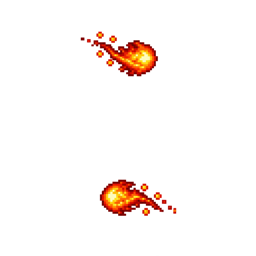
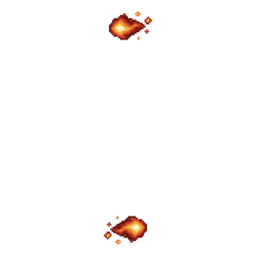
art: align fireball tails with aura rotation

Changed region(s): [[0.3125, 0.0312, 0.625, 0.3125], [0.375, 0.6875, 0.6875, 0.9688]]

diff --git a/Docs/presentation-art-preview.html b/Docs/presentation-art-preview.html
@@ -139,7 +139,7 @@
     <section>
       <div class="section-title">
         <h2>技能 VFX の対比</h2>
-        <span class="section-note">左が実装参照PNG、右が未接続の候補です。数字一〜三は中央を空けた火の玉で、時計回りの軌道に合わせて尾を反対側へ流します。周回の動きは承認後に接続します。</span>
+        <span class="section-note">左が実装参照PNG、右が未接続の候補です。数字一〜三は中央を空けた火の玉で、実装の反時計回りの軌道に合わせて尾を反対側へ流します。周回の動きは承認後に接続します。</span>
       </div>
       <div id="vfx-comparisons" class="comparison-list"></div>
     </section>
@@ -148,7 +148,7 @@
   <script>
     const root = 'review-assets/';
     // Keep local file previews from retaining an older candidate after an art revision.
-    const previewRevision = '20261004-v10';
+    const previewRevision = '20261004-v11';
     const pieces = [
       ['一', 'Art/Generated/CharacterIcons/icon_01_1.png'], ['二', 'Art/Generated/CharacterIcons/icon_02_2.png'], ['三', 'Art/Generated/CharacterIcons/icon_03_3.png'],
       ['四', 'Art/Generated/CharacterIcons/icon_04_4.png'], ['五', 'Art/Generated/CharacterIcons/icon_05_5.png'], ['六', 'Art/Generated/CharacterIcons/icon_06_6.png'],

diff --git a/Docs/Audio/VFX_AnimatedAssetBrief.md b/Docs/Audio/VFX_AnimatedAssetBrief.md
@@ -128,7 +128,7 @@ Use alpha fade and changing scale rather than only swapping colors. The first an
 - VFX はコンタクトシートや共通スプライトにまとめず、技能フォルダごとに一枚ずつ下書きを用意する。プレビューでは駒モチーフと並べて、透過、中心原点、余白、最小表示時の輪郭を個別に確認する。
 - 既存 VFX に対応するドット絵版は、新規の解釈で描き直さない。元の PNG を編集入力にし、対象物、角度、シルエット、キャンバス内の位置、透明余白、右向きなどの向きを固定したうえで、描画だけをドット絵へ変換する。とくに水は現行どおり水玉、盾は木札と墨線の和風意匠を維持する。馬は右端の目立つ欠けだけを一続きの砂埃へ補修してよく、鳥は現行の三枚の淡い羽を維持し、黒い縁取りを足さない。
 - 今回の全技能候補は、ランタイムが使う代表 PNG を 4 分の 1 程度へ縮小してから最近傍で元サイズへ戻す。透明度、原点、余白、実装時の向きを保持し、候補同士で別の画像を流用しない。
-- 数字の代表エフェクトは、現在の円形オーラを中央の駒を空けた小さな火の玉の周回表現へ置き換える候補を作る。`一` は火の玉一つ、`二` は二つ、`三` は三つで、外周に等間隔で置く。時計回りの軌道では、火球の頭を進行方向へ向け、尾はその反対側へ接線方向に流す。火の玉自体を時計回りに回転させる動きは承認後に既存の共通 VFX モーションへ加える。
+- 数字の代表エフェクトは、現在の円形オーラを中央の駒を空けた小さな火の玉の周回表現へ置き換える候補を作る。`一` は火の玉一つ、`二` は二つ、`三` は三つで、外周に等間隔で置く。既存の共通 VFX モーションに合わせて反時計回りに周回し、火球の頭を進行方向へ向け、尾はその反対側へ接線方向に流す。
 
 - Aim for a rugged shogi-board fantasy style: carved wood, forged iron, worn leather, paper, soil, smoke, sparks, embers, and water droplets.
 - Use directional light, contact shadows, debris, dust, and practical-looking impact flashes instead of sci-fi beams.
